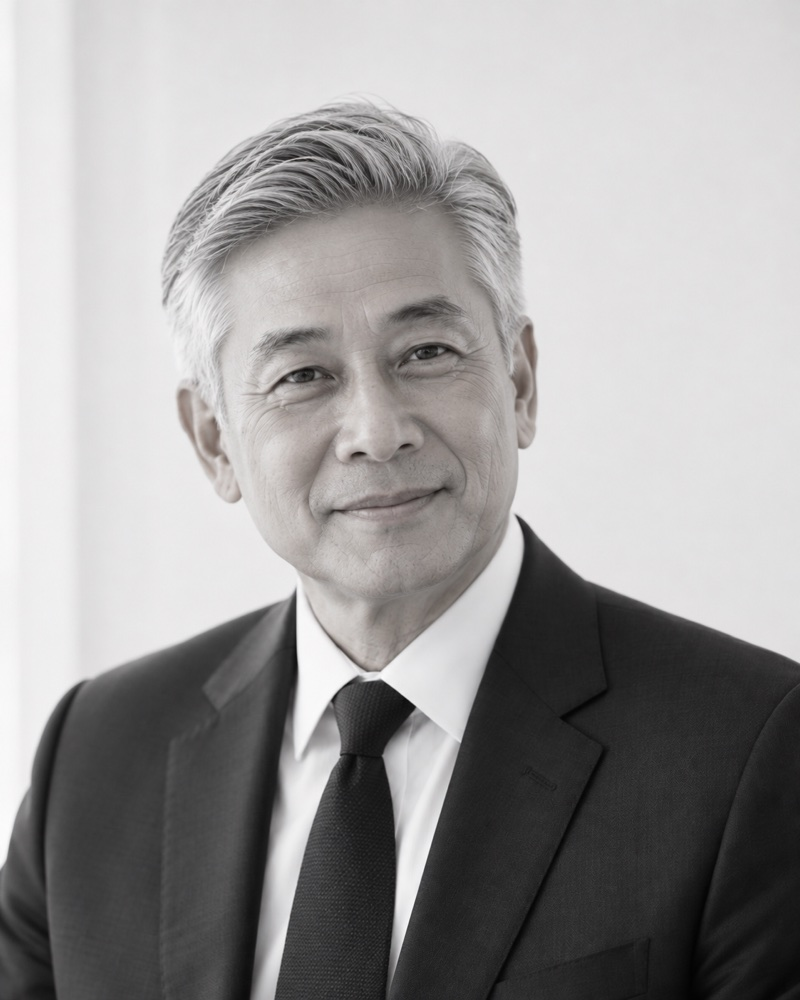
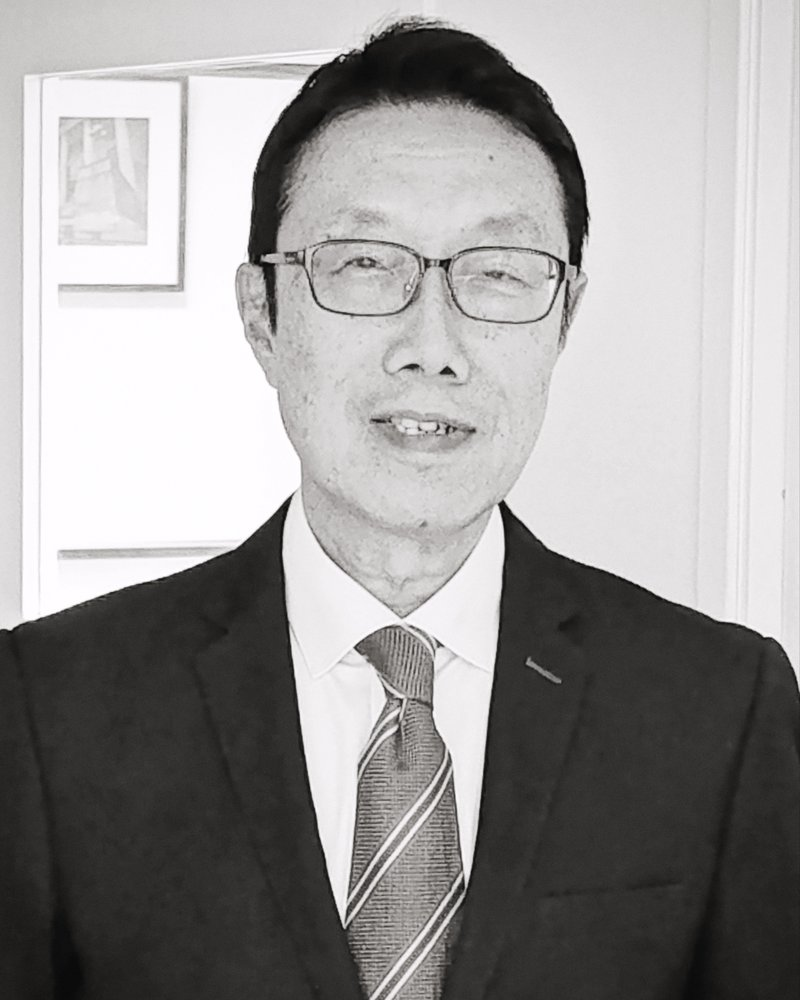
Client feedback: new lawyer photos, PWCK bio, longer loader, tagline hierarchy
- Replace both lawyer portraits with the supplied photographs (LSP, PWCK)
- PWCK bio: Certified Marriage Mentor, Singapore
- Page loader: words hold longer (pause 0.25s to 0.6s, final hold 0.3s to 1.6s)
- Tagline: Advocates and Solicitors; Commissioner for Oaths and Notary Public smaller

Claude-Session: https://claude.ai/code/session_0123tVu3vQG79E4EV7Vw4wNR

diff --git a/index.html b/index.html
@@ -155,7 +155,7 @@
       </div>
     </div>
     <div class="container services__copy">
-      <p class="services__line" data-line><span class="services__line-item services__firm">Lim Soo Peng &amp; Co LLC<span class="services__stop">.</span></span><span class="services__line-item">Advocate and solicitors<span class="services__stop">.</span></span><span class="services__line-item">Commissioner for oaths<span class="services__stop">.</span></span><span class="services__line-item">Notary public<span class="services__stop">.</span></span></p>
+      <p class="services__line" data-line><span class="services__line-item services__firm">Lim Soo Peng &amp; Co LLC<span class="services__stop">.</span></span><span class="services__line-item">Advocates and Solicitors<span class="services__stop">.</span></span><span class="services__line-item services__line-item--sub">Commissioner for Oaths<span class="services__stop">.</span></span><span class="services__line-item services__line-item--sub">Notary Public<span class="services__stop">.</span></span></p>
       <span class="services__scroll" data-scroll-cue aria-hidden="true"><svg viewBox="0 0 24 24"><path class="hero__chev hero__chev--top" d="M6 6.5 12 12l6-5.5"/><path class="hero__chev hero__chev--bottom" d="M6 12.5 12 18l6-5.5"/></svg></span>
       <ol class="services__list">
         <li class="service" data-service="1"><span class="service__num">01</span><h3 class="service__name">Litigation</h3></li>
@@ -351,7 +351,7 @@
     <p class="bio__meta">Advocate &amp; Solicitor, Singapore</p>
   </div>
   <div class="bio__rule" aria-hidden="true"></div>
-  <p class="bio__text">Advocate &amp; Solicitor, Singapore<br>Certified Counsellor, +++</p>
+  <p class="bio__text">Advocate &amp; Solicitor, Singapore<br>Certified Marriage Mentor, Singapore</p>
   <button class="cta cta--icon bio__close" type="button" aria-label="Close" data-close><span class="cta__ring" aria-hidden="true"><svg><use href="#i-x"/></svg></span></button>
   <button class="btn btn--lg btn--outline bio__back" type="button" data-close>Back</button>
 </dialog>

diff --git a/library/components.css b/library/components.css
@@ -295,6 +295,9 @@ html:not(.js) .nav__links{display:none}
 .services__line{margin:0 auto 3rem;max-width:min(100%,64rem);font:400 var(--fs-statement)/var(--lh-statement) var(--font-serif);color:var(--on-dark);text-align:center;text-wrap:balance}
 /* Each line stays on one line. The longest (the firm name) is about 9.8em wide, so every line shrinks to fit the gutters on phones and is capped at the line's size */
 .services__line-item{display:block;white-space:nowrap;font-size:min(var(--fs-statement),calc((100vw - 2 * var(--gutter)) / 10))}
+/* Commissioning and notarial services: secondary to the firm being advocates and solicitors, so a smaller size with a little space above */
+.services__line-item--sub{font-size:calc(min(var(--fs-statement),calc((100vw - 2 * var(--gutter)) / 10)) * .55);line-height:1.35}
+.services__line-item:not(.services__line-item--sub) + .services__line-item--sub{margin-top:.6em}
 /* Scroll cue: the hero's double chevron (same loop, .hero__chev), at the bottom of the stage, over the one-liner and every service. Only while pinned. */
 .services__scroll{display:none}
 .services__stop{color:var(--olive-eyebrow)}

diff --git a/scripts/page-loader.js b/scripts/page-loader.js
@@ -11,10 +11,10 @@
   var CONFIG = {
     stages: [33, 66, 100],            // the counter value at which each word arrives
     segment: 0.6,                      // seconds the counter takes for each third (about 1.8s of counting)
-    pause: 0.25,                       // seconds the counter holds at the first two stages
+    pause: 0.6,                        // seconds the counter holds at the first two stages
     word: { y: 24, duration: 0.55, ease: "power3.out" },
     move: { duration: 0.4, ease: "power3.out" },  // the block moves up one line when a word arrives
-    hold: 0.3,                         // seconds on 100% before the counter and line fade
+    hold: 1.6,                         // seconds on 100%, all three words showing, before the counter and line fade
     fade: 0.3,
     // Shared with the page transition (scripts/page-transition.js loads first and owns these values).
     slide: (window.PageTransition && window.PageTransition.slide) || { duration: 0.9, ease: "power3.inOut", leaveAt: 0.45, extra: 8 },
